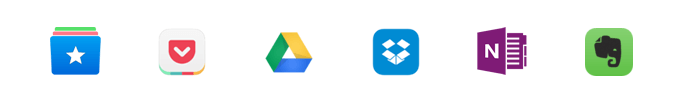
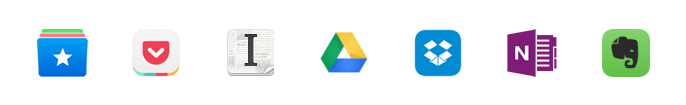
Update service and export design.

Changed region(s): [[0.1837, 0.2571, 0.949, 0.7429], [0.0306, 0.2571, 0.1531, 0.7429]]

diff --git a/src/index.html b/src/index.html
@@ -108,6 +108,7 @@
             </div>
             <img src="./assets/images/custom.png" alt="">
         </div>
+        <!--
         <div class="feature export">
             <img src="./assets/images/export.png" alt="">
             <div class="intro">
@@ -117,6 +118,17 @@
                     <p>发送页面到 <span>Kindle</span> ，详细请看 <a href="https://github.com/Kenshin/simpread/wiki/%E5%8F%91%E9%80%81%E5%88%B0-Kindle" target="_blank">配置指南</a></p>
                     <p>多种导出方式：<span>Markdown</span>&nbsp;<span>PDF</span>&nbsp;<span>PNG</span> <span><a href="https://github.com/Kenshin/simpread/wiki/%E5%8F%91%E9%80%81%E5%88%B0-Epub" target="_blank">Epub</a></span></p>
                     <p style="line-height: 2;">连接你的生产力工具，包括：<span>Pocket</span>&nbsp;<span>Instapaper</span>&nbsp;<span>Linnk</span>&nbsp;<span>印象笔记 / Evernote</span>&nbsp;<span>Onenote</span>&nbsp;<span>Google 云端硬盘</span>&nbsp;详细请看 <a href="https://github.com/Kenshin/simpread/wiki/%E6%8E%88%E6%9D%83%E6%9C%8D%E5%8A%A1" target="_blank">授权服务</a></p>
+                </div>
+            </div>
+        </div>
+        -->
+        <div class="feature multi">
+            <img src="./assets/images/multi_page.png" alt="">
+            <div class="intro">
+                <div class="title">论坛类页面 · 分页</div>
+                <div class="desc">
+                    <p>支持 <span>论坛类页面</span>，更完美的展示 <span>知乎</span>&nbsp;<span>贴吧</span> 等论坛类页面</p>
+                    <p>支持 <span>分页功能</span>，在阅读模式下可翻页，再也不退出阅读模式了</p>
                 </div>
             </div>
         </div>
@@ -131,17 +143,16 @@
             </div>
             <img src="./assets/images/site_manager.png" alt="">
         </div>
-        <div class="feature multi">
-            <img src="./assets/images/multi_page.png" alt="">
-            <div class="intro">
-                <div class="title">论坛类页面 · 分页</div>
-                <div class="desc">
-                    <p>支持 <span>论坛类页面</span>，更完美的展示 <span>知乎</span>&nbsp;<span>贴吧</span> 等论坛类页面</p>
-                    <p>支持 <span>分页功能</span>，在阅读模式下可翻页，再也不退出阅读模式了</p>
-                </div>
-            </div>
+        <div class="service">
+            <div class="title">支持各种生产力工具</div>
+            <div class="desc"><span>Pocket</span> · <span>Instapaper</span> · <span>Linnk</span> · <span>印象笔记 / Evernote</span> · <span>Onenote</span> · <span>Google 云端硬盘</span> ，详细请看 <a href="https://github.com/Kenshin/simpread/wiki/%E6%8E%88%E6%9D%83%E6%9C%8D%E5%8A%A1" target="_blank">授权服务</a></div>
+            <img src="./assets/images/service.png">
+            <div class="title">多种导出方式</div>
+            <div class="desc"><span>Markdown</span> · <span>PDF</span> · <span>PNG</span> · <span><a href="https://github.com/Kenshin/simpread/wiki/%E5%8F%91%E9%80%81%E5%88%B0-Epub" target="_blank">Epub</a></span> · <span>Kindle</span> ，详细请看 <a href="https://github.com/Kenshin/simpread/wiki/%E5%8F%91%E9%80%81%E5%88%B0-Kindle" target="_blank">配置指南</a></div>
+            <img src="./assets/images/export.png">
         </div>
         <div class="feature all">
+            <div class="title">更多功能，等你<a href="http://ojec5ddd5.bkt.clouddn.com/feature%201.1.0.png" target="_blank">发现！</a></div>
             <section>
                 <div class="only">
                     <span class="icon style"></span>
@@ -192,7 +203,6 @@
                     <div class="name">清除</div>
                 </div>
             </section>
-            <div class="title">更多功能，等你<a href="http://ojec5ddd5.bkt.clouddn.com/feature%201.1.0.png" target="_blank">发现！</a></div>
         </div>
         <div class="downloads">
             <a name="downloads">安装「适合你的」浏览器插件</a>

diff --git a/src/assets/css/main.css b/src/assets/css/main.css
@@ -57,6 +57,8 @@ body {
 
     color: var(--text-color);
     background-color: var(--background-color);
+
+    overflow-x: hidden;
 }
 
 .logo span {
@@ -248,6 +250,35 @@ body {
         text-decoration: none;
         cursor: help;
         font-weight: 400;
+    }
+}
+
+.main .service {
+    background-color: var(--text-secondary-color);
+
+    & .title {
+        padding: 40px 0;
+        font-size: 2.4rem;
+    }
+
+    & .desc {
+        font-size: 1.8rem;
+        color: var(--secondary-color);
+
+        & span {
+            padding: 5px;
+            border-radius: 3px;
+            background-color: rgba(27,31,35,0.05);
+        }
+
+        & a {
+            color: inherit;
+            font-size: inherit;
+            border-bottom: 1px solid rgba(51, 51, 51, 0.7);
+            text-decoration: none;
+            cursor: help;
+            font-weight: 400;
+        }
     }
 }
 
